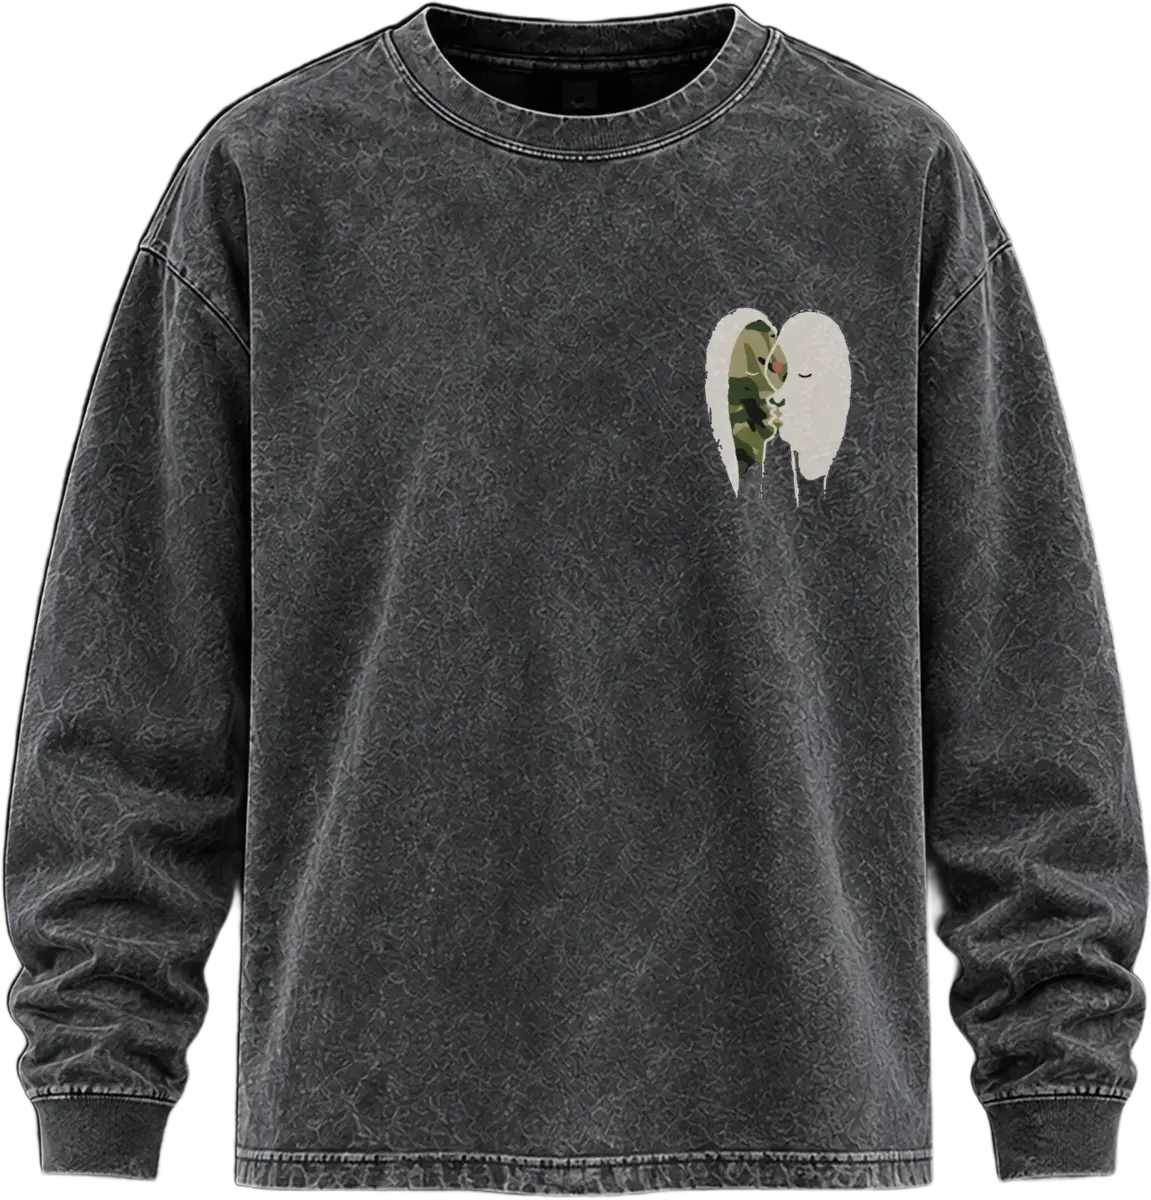
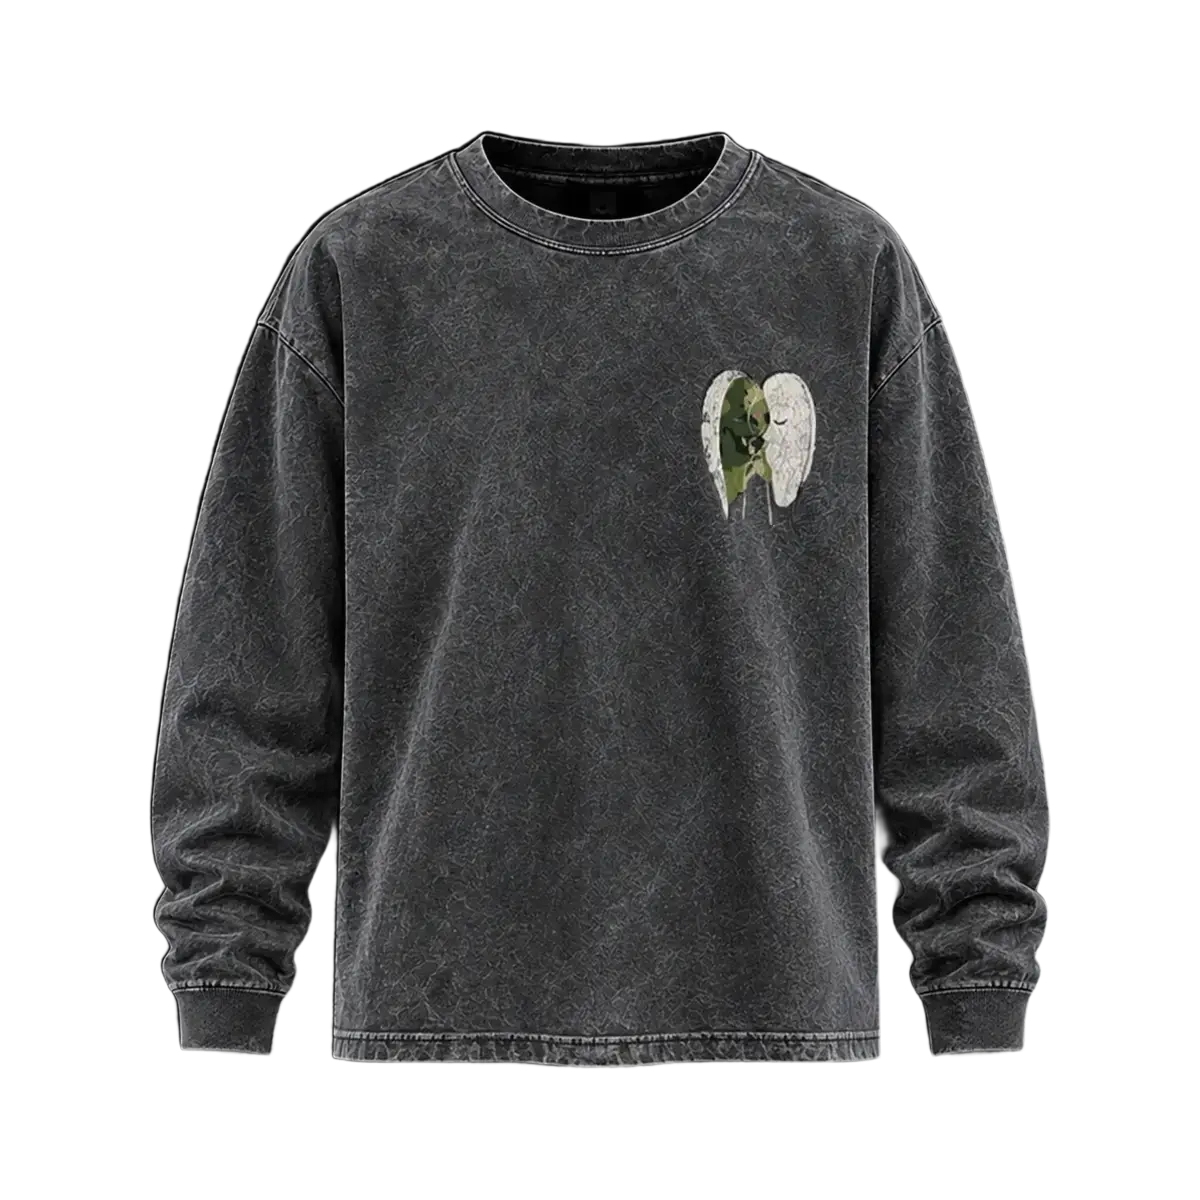
Long sleeve: same size and same printed look as the tee
The long-sleeve cut-out filled its whole square while the tee has margin,
so it rendered about 30% larger; it is now scaled to the tee's garment
length. Its print is transferred from the tee photos so it has the same
cracked, textured screen-print look instead of the clean print file.

Claude-Session: https://claude.ai/code/session_01XhEeNPbG4KL5nKWSRKhVqG

diff --git a/scripts/transfer-print.py b/scripts/transfer-print.py
@@ -1,0 +1,53 @@
+"""Moves the real-looking print from the camo tee onto the long sleeve.
+
+The tee photos carry a printed, cracked, fabric-textured version of the kiss print; the long-sleeve
+visual had the clean print file composited on. This finds the print's bounding box on both images
+(bright cream or green camo pixels), then copies the tee's print pixels into the long sleeve's box,
+masked by the original print file's alpha so only the artwork moves.
+
+Usage: python3 transfer-print.py <tee image> <long-sleeve image> <print file> <out>
+"""
+import sys
+import numpy as np
+from PIL import Image, ImageFilter
+from scipy import ndimage
+
+
+def print_bbox(rgba):
+    a = rgba.astype(int)
+    r, g, b = a[..., 0], a[..., 1], a[..., 2]
+    lum = 0.299 * r + 0.587 * g + 0.114 * b
+    cream = (lum > 150) & (abs(r - b) < 70)
+    green = (g > r + 5) & (g > b + 8) & (lum > 40)
+    m = (cream | green) & (a[..., 3] > 200)
+    m = ndimage.binary_closing(m, iterations=10)
+    lab, n = ndimage.label(m)
+    sizes = ndimage.sum(m, lab, range(1, n + 1))
+    ys, xs = np.nonzero(lab == 1 + int(np.argmax(sizes)))
+    return xs.min(), ys.min(), xs.max() + 1, ys.max() + 1
+
+
+def main(tee_path, ls_path, print_path, out_path):
+    tee = Image.open(tee_path).convert('RGBA')
+    ls = Image.open(ls_path).convert('RGBA')
+    art = Image.open(print_path).convert('RGBA')
+    art = art.crop(art.getbbox())
+
+    tb = print_bbox(np.array(tee))
+    lb = print_bbox(np.array(ls))
+    # The long sleeve keeps its print position; size comes from its own box so the old print is covered.
+    w, h = lb[2] - lb[0], lb[3] - lb[1]
+    patch = tee.crop(tb).resize((w, h), Image.LANCZOS)
+    alpha = art.split()[3].resize((w, h), Image.LANCZOS)
+    alpha = alpha.filter(ImageFilter.MaxFilter(5)).filter(ImageFilter.GaussianBlur(1))
+    patch.putalpha(alpha)
+    ls.alpha_composite(patch, (lb[0], lb[1]))
+    if out_path.lower().endswith(('.jpg', '.jpeg')):
+        ls.convert('RGB').save(out_path, quality=92)
+    else:
+        ls.save(out_path, quality=90)
+    print(out_path, 'tee box', tb, 'ls box', lb)
+
+
+if __name__ == '__main__':
+    main(*sys.argv[1:5])

diff --git a/brand/products/langarmad/README.md b/brand/products/langarmad/README.md
@@ -5,3 +5,5 @@
 - `langarmad_bak-fram.jpg`: båda sidorna bredvid varandra.
 
 Plagget är AI-genererat, trycket är original. Inget provplagg finns än.
+
+**Uppdaterat 2026-10-06:** trycket på den långärmade är nu överfört från t-shirtens produktbilder (`scripts/transfer-print.py`), så att det har samma spruckna, tryckta yta som på t-shirten. Den frilagda bilden i temat är skalad så att plagget är lika långt som t-shirten.
